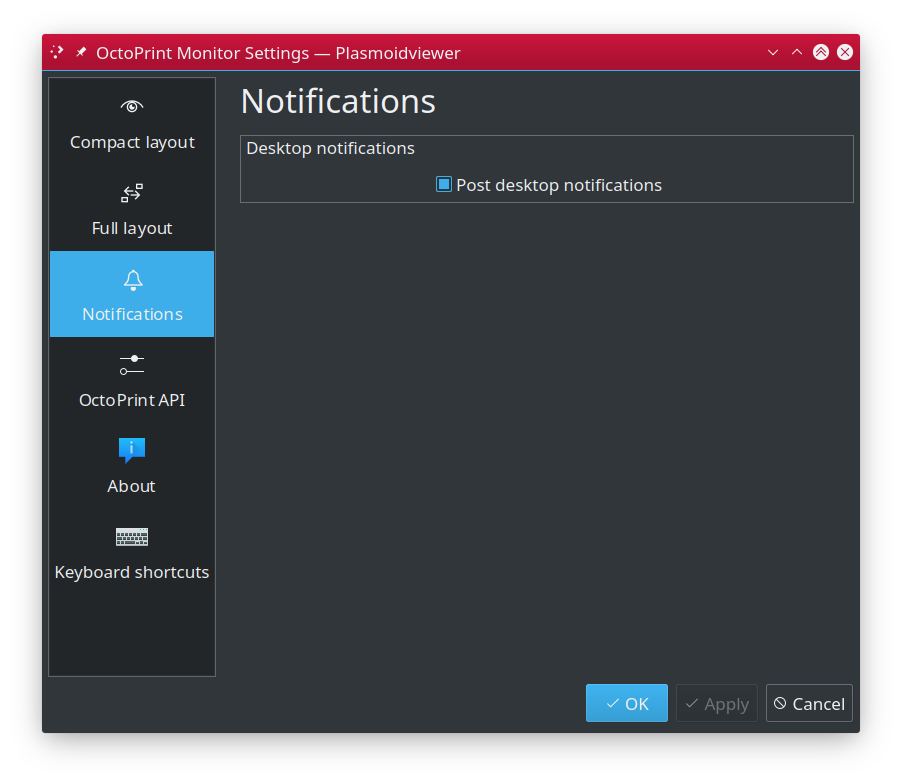
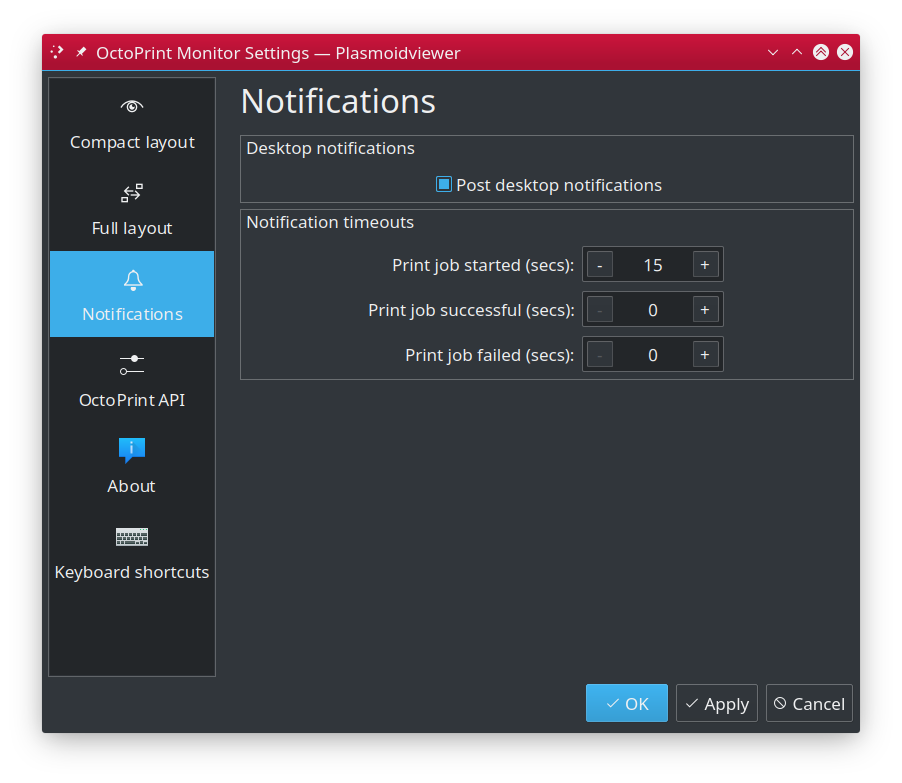
Added configurable deskop notification timeouts

diff --git a/src/contents/ui/main.qml b/src/contents/ui/main.qml
@@ -146,6 +146,7 @@ Item {
     readonly property string bucket_error: "error"
     readonly property string bucket_idle: "idle"
     readonly property string bucket_disconnected: "disconnected"
+    readonly property string bucket_connecting: "connecting"
 
     /*
     ** Returns name of printer state's bucket.
@@ -208,8 +209,8 @@ Item {
 
     // ------------------------------------------------------------------------------------------------------------------------
 
-    property string octoState: "connecting"
-    property string octoStateBucket: "connecting"
+    property string octoState: bucket_connecting
+    property string octoStateBucket: bucket_connecting
     // FIXME we should have SVG icons here
     property string octoStateIcon: plasmoid.file("", "images/state-unknown.png")
     property string octoStateDescription: 'Connecting to OctoPrint API.'
@@ -229,7 +230,7 @@ Item {
 //              case bucket_working: ""
 //              case bucket_error: "error"
                 case 'unavailable': desc = 'Unable to connect to OctoPrint API.'; break;
-                case 'connecting': desc = 'Connecting to OctoPrint API.'; break;
+                case bucket_connecting: desc = 'Connecting to OctoPrint API.'; break;
 
                 case 'configuration': desc = 'Widget is not configured!'; break;
             }
@@ -256,32 +257,47 @@ Item {
 
         var body = main.octoStateDescription
         if (current != previous) {
-            // switching back from working to anything but paused
-            if (!post && (previous == bucket_working && current != bucket_paused)) {
+            // switching back from "Working"
+            if (!post && (previous == bucket_working)) {
                 post = true
-                console.debug('compl: ' + jobCompletion)
-                if (jobCompletion == 100) {
-                    body = `Print ${jobFileName} completed. Took ${jobPrintTime}.`
-                } else {
-                    body = `Print ${jobFileName} stopped at ${jobCompletion}%.`
+                switch (current) {
+                    case bucket_paused:
+                        body = `Print job '${jobFileName}' paused.`
+                        break
+
+                    default:
+                        if (jobCompletion == 100) {
+                            expireTimeout = plasmoid.configuration.notificationsTimeoutBucketPrintJobSuccessful
+                            body = `Print '${jobFileName}' completed.`
+                        } else {
+                            expireTimeout = plasmoid.configuration.notificationsTimeoutBucketPrintJobFailed
+                            body = `Print '${jobFileName}' stopped at ${jobCompletion}%.`
+                        }
+                        if (jobPRintTime != '') {
+                            body += ` Print time ${jobPrintTime}.`
+                        }
+                        break
                 }
             }
 
-            // switching from anything (but connecting) to working
-            if (!post && (current == bucket_working) && previous != 'connecting') {
+            // switching from anything (but connecting) to bucket "Working"
+            if (!post && (current == bucket_working) && (previous != bucket_connecting)) {
                 post = true
-                expireTimeout = 15000
-                body = `Printing ${jobFileName}. Est. print time ${main.jobPrintTimeLeft}.`
+                expireTimeout = plasmoid.configuration.notificationsTimeoutPrintJobStarted
+                body = `Printing ${jobFileName}.`
+                if (main.JobPrintTimeLeft != '') {
+                    body += ` Est. print time ${main.jobPrintTimeLeft}.`
+                }
             }
         }
 
 //        console.debug(`post: ${post}, prev: ${previous}, current: ${current}, expTimeout: ${expireTimeout}`);
         if (post) notificationManager.post({
-            'title': Plasmoid.title,
+            'title': Plasmoid.title + ' ' + new Date().toLocaleString(Qt.locale(), Locale.ShortFormat),
             'icon': main.octoStateIcon,
             'summary': `Printer new state: '${main.octoState}'.`,
             'body': body,
-            'expireTimeout': expireTimeout,
+            'expireTimeout': expireTimeout * 1000,
         });
     }
 
@@ -434,10 +450,10 @@ Item {
        	main.jobCompletion = (Util.isVal(resp.progress.completion)) ? Util.roundFloat(resp.progress.completion) : 0
 
 		var jobPrintTime = resp.progress.printTime
-		main.jobPrintTime = (Util.isVal(jobPrintTime)) ? Util.secondsToString(jobPrintTime) : '???'
+		main.jobPrintTime = (Util.isVal(jobPrintTime)) ? Util.secondsToString(jobPrintTime) : ''
 
 		var printTimeLeft = resp.progress.printTimeLeft
-        main.jobPrintTimeLeft = (Util.isVal(printTimeLeft)) ? Util.secondsToString(printTimeLeft) : '???'
+        main.jobPrintTimeLeft = (Util.isVal(printTimeLeft)) ? Util.secondsToString(printTimeLeft) : ''
 	}
 
     // ------------------------------------------------------------------------------------------------------------------------

diff --git a/src/contents/ui/configNotifications.qml b/src/contents/ui/configNotifications.qml
@@ -21,6 +21,10 @@ ColumnLayout {
 	property alias cfg_notificationsEnabled:	notificationsEnabled.checked
 //	property alias cfg_useNotifySend:		    notificationsUseNotifySend.checked
 
+    property alias cfg_notificationsTimeoutPrintJobStarted: notificationsTimeoutPrintJobStarted.value
+    property alias cfg_notificationsTimeoutPrintJobSuccessful: notificationsTimeoutPrintJobSuccessful.value
+    property alias cfg_notificationsTimeoutPrintJobFailed: notificationsTimeoutPrintJobFailed.value
+
     GroupBox {
         title: i18n("Desktop notifications")
         Layout.fillWidth: true
@@ -40,6 +44,43 @@ ColumnLayout {
         }
     } // GroupBox
 
+    GroupBox {
+        title: i18n("Notification timeouts")
+        Layout.fillWidth: true
+
+	    Kirigami.FormLayout {
+    	    anchors.left: parent.left
+        	anchors.right: parent.right
+
+            PlasmaComponents.SpinBox {
+                id: notificationsTimeoutPrintJobStarted
+                editable: true
+                enabled: cfg_notificationsEnabled
+                from: 0
+                to: 60
+                Kirigami.FormData.label: i18n("Print job started (secs)") + ':'
+	        }
+
+            PlasmaComponents.SpinBox {
+                id: notificationsTimeoutPrintJobSuccessful
+                editable: true
+                enabled: cfg_notificationsEnabled
+                from: 0
+                to: 60
+                Kirigami.FormData.label: i18n("Print job successful (secs)") + ':'
+	        }
+
+            PlasmaComponents.SpinBox {
+                id: notificationsTimeoutPrintJobFailed
+                editable: true
+                enabled: cfg_notificationsEnabled
+                from: 0
+                to: 60
+                Kirigami.FormData.label: i18n("Print job failed (secs)") + ':'
+	        }
+
+        }
+    }
     Item {
         Layout.fillWidth: true
         Layout.fillHeight: true

diff --git a/src/contents/ui/FullRepresentation.qml b/src/contents/ui/FullRepresentation.qml
@@ -150,14 +150,14 @@ GridLayout {
                     minimumPixelSize: 8
                     text: i18n('Print time') + `: ${main.jobPrintTime}`
                     font.pixelSize: Qt.application.font.pixelSize * 0.8
-                    visible: main.jobInProgress && plasmoid.configuration.showJobPrintTime
+                    visible: main.jobInProgress && plasmoid.configuration.showJobPrintTime && main.jobPrintTime != ''
                 }
                 PlasmaComponents.Label {
                     fontSizeMode: Text.Fit
                     minimumPixelSize: 8
                     text: i18n('ETA') + `: ${main.jobPrintTimeLeft}`
                     font.pixelSize: Qt.application.font.pixelSize * 0.8
-                    visible: main.jobInProgress && plasmoid.configuration.showJobTimeLeft
+                    visible: main.jobInProgress && plasmoid.configuration.showJobTimeLeft && main.jobPrintTimeLeft != ''
                 }
             } // ColumnLayout
         } // RowLayout

diff --git a/docs/setup.md b/docs/setup.md
@@ -139,7 +139,13 @@ Full layout is being used when `OctoPrint Monitor` is used as regular desktop wi
 
  - **Post desktop notifications** - when checked, various events (like printer state changes etc)
    will additionally announced by posting desktop notification.
-
+ - **Notification timeouts**
+   - **Print job started** - timeout (in seconds) for desktop notification of new print job started. 
+     Setting to `0` means no timeout.
+   - **Print job successful** - timeout (in seconds) for desktop notification of successful completion
+     of print job. Setting to `0` means no timeout.
+   - **Print job failed** - timeout (in seconds) for desktop notification of failed (aborted, stopped,
+     printer disconnected etc) print job. Setting to `0` means no timeout.
 
 ## OctoPrint API ##
 

diff --git a/CHANGES.md b/CHANGES.md
@@ -8,6 +8,7 @@
    * Added camera view controls
    * Fixed notification config panel
    * Reworked desktop notification content to contain more information.
+   * Desktop notification timeouts can now be configured
 
 * v1.1.1 (2020-12-03)
    * Improved docs
